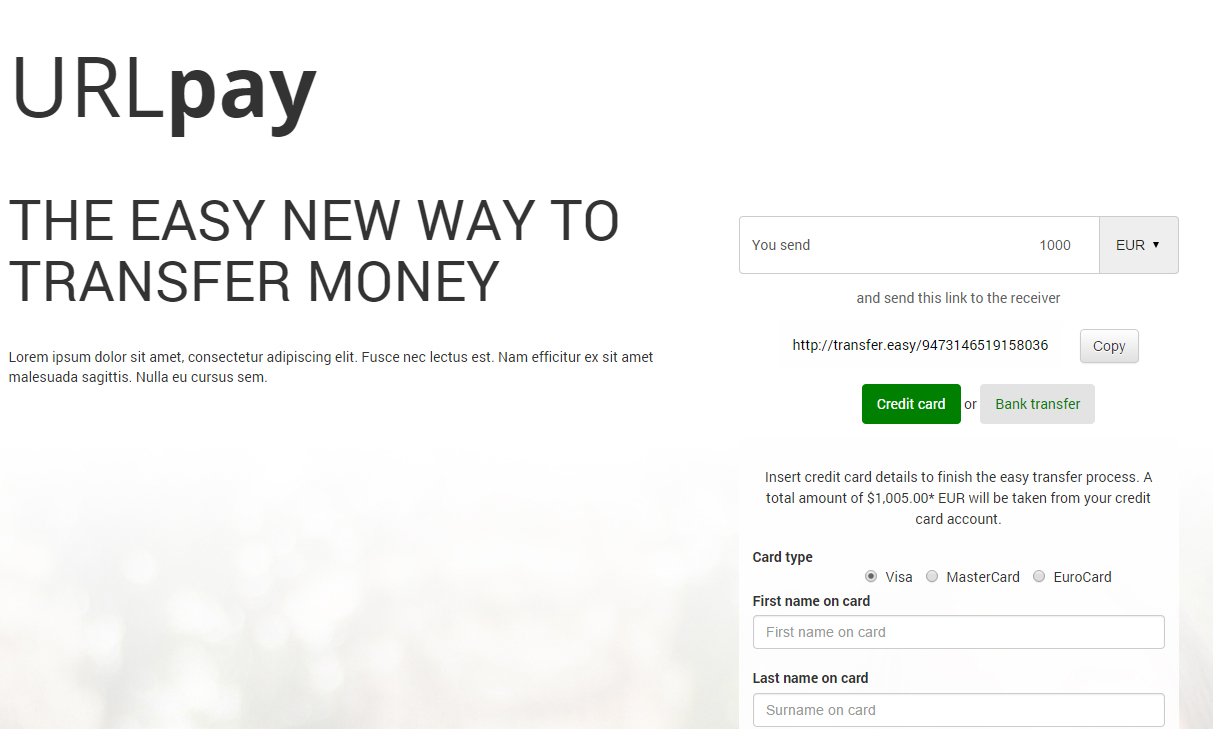
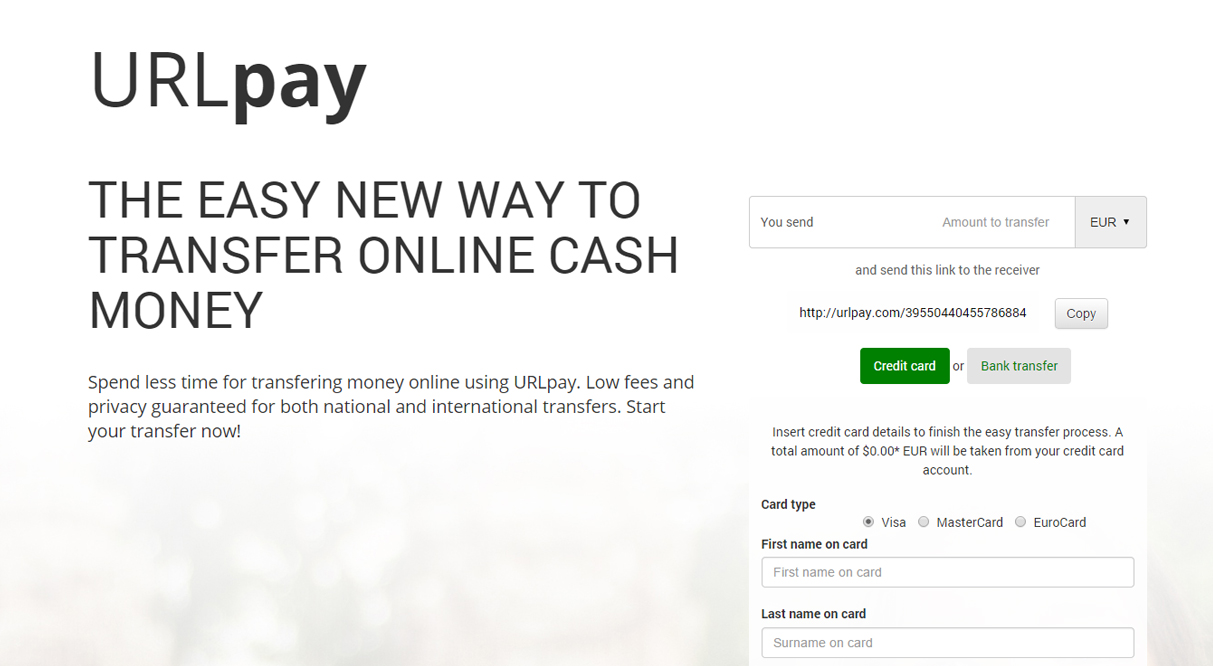
linebreaks addded

diff --git a/web-app/views/send.html b/web-app/views/send.html
@@ -11,7 +11,7 @@
     </div>
     <div class="block-group">
       <div class="main-left block ">
-        <h1>The easy new way to transfer online cash money</h1>
+        <h1>The easy new way to transfer online cash</h1>
 
         <p>Spend less time for transfering money online using URLpay. Low fees and privacy guaranteed for both national and international transfers. Start your transfer now! </p>
       </div>
@@ -75,17 +75,17 @@
 
 
                   <div class="form-group">
-                    <label class="left" for="firstName">First name on card</label>
+                    <label class="left" for="firstName">First name on card</label><br/>
                     <input type="text" class="form-control" id="firstName" ng-model="transfer.firstName"
                            placeholder="First name on card">
                   </div>
                   <div class="form-group">
-                    <label class="left" for="LastName">Last name on card</label>
+                    <label class="left" for="LastName">Last name on card</label><br/>
                     <input type="text" class="form-control" id="LastName" ng-model="transfer.lastName"
                            placeholder="Surname on card">
                   </div>
                   <div class="form-group">
-                    <label class="left" for="cardNum" style="width: 100%;">Credit card</label>
+                    <label class="left" for="cardNum" style="width: 100%;">Credit card</label><br/>
                     <input type="text" style="width: 70%; float:left" class="form-control" id="cardNum"
                            placeholder="Card number" ng-model="transfer.creditCardNumber"/>
                     <input style="width: 28%;float:right;display: inline" type="text"
